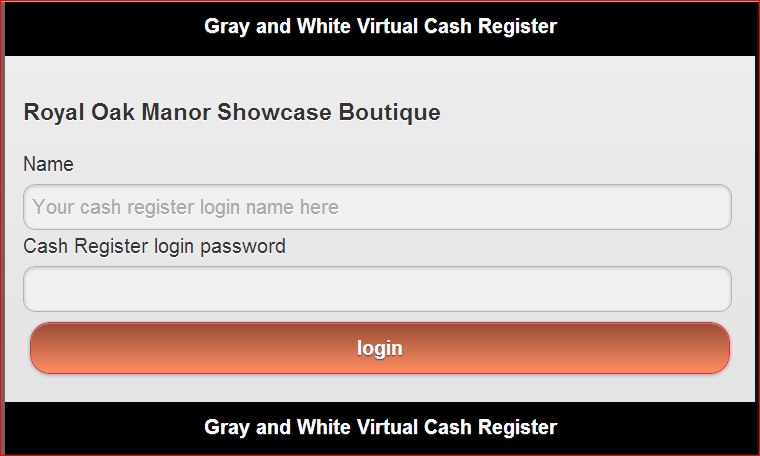
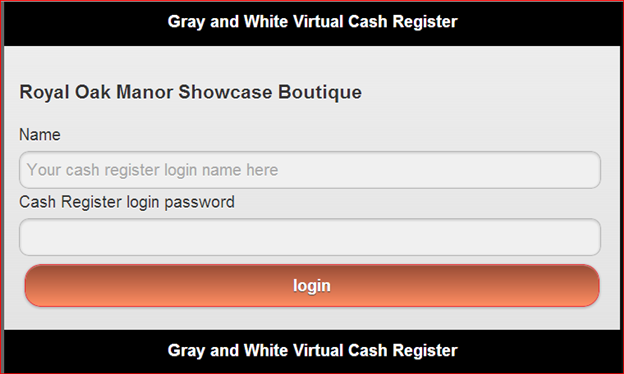
Made corrections to all update files and changed png files to be 6.5 inches wide

diff --git a/TRXupdate.php b/TRXupdate.php
@@ -2,7 +2,7 @@
 //Update record into database
 require_once('connect.php');
 $id=$_POST['id'];
-$id=$_POST['date'];
+$date=$_POST['date'];
 $type=$_POST['type'];
 $clerkId=$_POST['clerkId'];
 $deptId=$_POST['deptId'];
@@ -11,23 +11,30 @@ $descr=$_POST['descr'];
 $quantity=$_POST['quantity'];
 $price=$_POST['price'];
 $tax=$_POST['tax'];
-$amount=$_POST['post'];
-
-$sql="UPDATE transaction set name= \"$type\",
+$amount=$_POST['amount'];
+$message ="";
+$sql="UPDATE transaction set type= \"$type\",
 clerkId=\"$clerkId\",
 deptId=\"$deptId\",
-pluId=\"$pluId\"],
-description=\"$description\",
+pluId=\"$pluId\",
+descr=\"$descr\",
 quantity=\"$quantity\",
 price=\"$price\",
 tax=\"$tax\",
 amount=\"$amount\"
 where id = \"$id\" ";
-$Result=mysql_query($sql);
+$result=mysql_query($sql);
+if(mysql_error() != ''){
+$Result = "Not Ok";
+$message = "<br />Problem with the query <br />" . $sql . "<br /> " . mysql_error();
+}else{
+$Result = "OK";
+}
 
  
 //Return result to jTable
 $jTableResult = array();
-$jTableResult['Result'] = "OK";
+$jTableResult['Result'] = $Result;
+$jTableResult['Message']= $message;
 print json_encode($jTableResult);
 ?>

diff --git a/Clerkupdate.php b/Clerkupdate.php
@@ -6,21 +6,25 @@ $name=$_POST['name'];
 $password=$_POST['password'];
 $role=$_POST['role'];
 $phone=$_POST['phone'];
-$sql="INSERT INTO clerk set name= \"$name\",
-password = \"$password\",
-role = \"$role\",
-phone = \"$phone\"
- where id = \"$id\" ";
-$result1=mysql_query($sql);
 
- 
-//Get last inserted record (to return to jTable)
-$result = mysql_query("SELECT * FROM department WHERE id = LAST_INSERT_ID()");
-$row = mysql_fetch_array($result);
+$sql="UPDATE clerk set name= \"$name\",
+password=\"$password\",
+role=\"$role\",
+phone=\"$phone\"
+ where id = \"$id\" ";
+ $result=mysql_query($sql);
+if(mysql_error() != ''){
+$Result = "Not Ok";
+$message = "<br />Problem with the query <br />" . $sql . "<br /> " . mysql_error();
+}else{
+$Result = "OK";
+}
+
+
  
 //Return result to jTable
 $jTableResult = array();
-$jTableResult['Result'] = "OK";
-$jTableResult['Record'] = $row;
+$jTableResult['Result'] = $result;
+$jTableResult['Message']= $message;
 print json_encode($jTableResult);
 ?>

diff --git a/PLUupdate.php b/PLUupdate.php
@@ -12,11 +12,19 @@ unitPrice=\"$unitPrice\",
 deptID=\"$deptID\",
 overide=\"$overide\"
 where id = \"$id\" ";
-$Result=mysql_query($sql);
+$result=mysql_query($sql);
+if(mysql_error() != ''){
+$Result = "Not Ok";
+$message = "<br />Problem with the query <br />" . $sql . "<br /> " . mysql_error();
+}else{
+$Result = "OK";
+}
+
 
  
 //Return result to jTable
 $jTableResult = array();
-$jTableResult['Result'] = "OK";
+$jTableResult['Result'] = $result;
+$jTableResult['Message']= $message;
 print json_encode($jTableResult);
 ?>

diff --git a/Taxupdate.php b/Taxupdate.php
@@ -10,12 +10,19 @@ $sql="Update tax set name= \"$name\",
 percent=\"$percent\"
  where id = \"$id\" ";
 $result=mysql_query($sql);
+if(mysql_error() != ''){
+$Result = "Not Ok";
+$message = "<br />Problem with the query <br />" . $sql . "<br /> " . mysql_error();
+}else{
+$Result = "OK";
+}
 
  
 
  
 //Return result to jTable
 $jTableResult = array();
-$jTableResult['Result'] = "OK";
+$jTableResult['Result'] = $result;
+$jTableResult['Message']= $message;
 print json_encode($jTableResult);
 ?>

diff --git a/Deptupdate.php b/Deptupdate.php
@@ -15,12 +15,20 @@ taxid3=\"$taxid3\",
 taxid4=\"$taxid4\"
  where id = \"$id\" ";
 $result=mysql_query($sql);
+if(mysql_error() != ''){
+$Result = "Not Ok";
+$message = "<br />Problem with the query <br />" . $sql . "<br /> " . mysql_error();
+}else{
+$Result = "OK";
+}
+
 
  
 
  
 //Return result to jTable
 $jTableResult = array();
-$jTableResult['Result'] = "OK";
+$jTableResult['Result'] = $result;
+$jTableResult['Message']= $message;
 print json_encode($jTableResult);
 ?>

diff --git a/TRXlist.php b/TRXlist.php
@@ -1,7 +1,7 @@
 <?php
 require_once("connect.php");
 //Get records from database
-$result = mysql_query("SELECT * FROM  transaction order by date;");
+$result = mysql_query("SELECT * FROM  transaction order by date");
  
 //Add all records to an array
 $rows = array();
